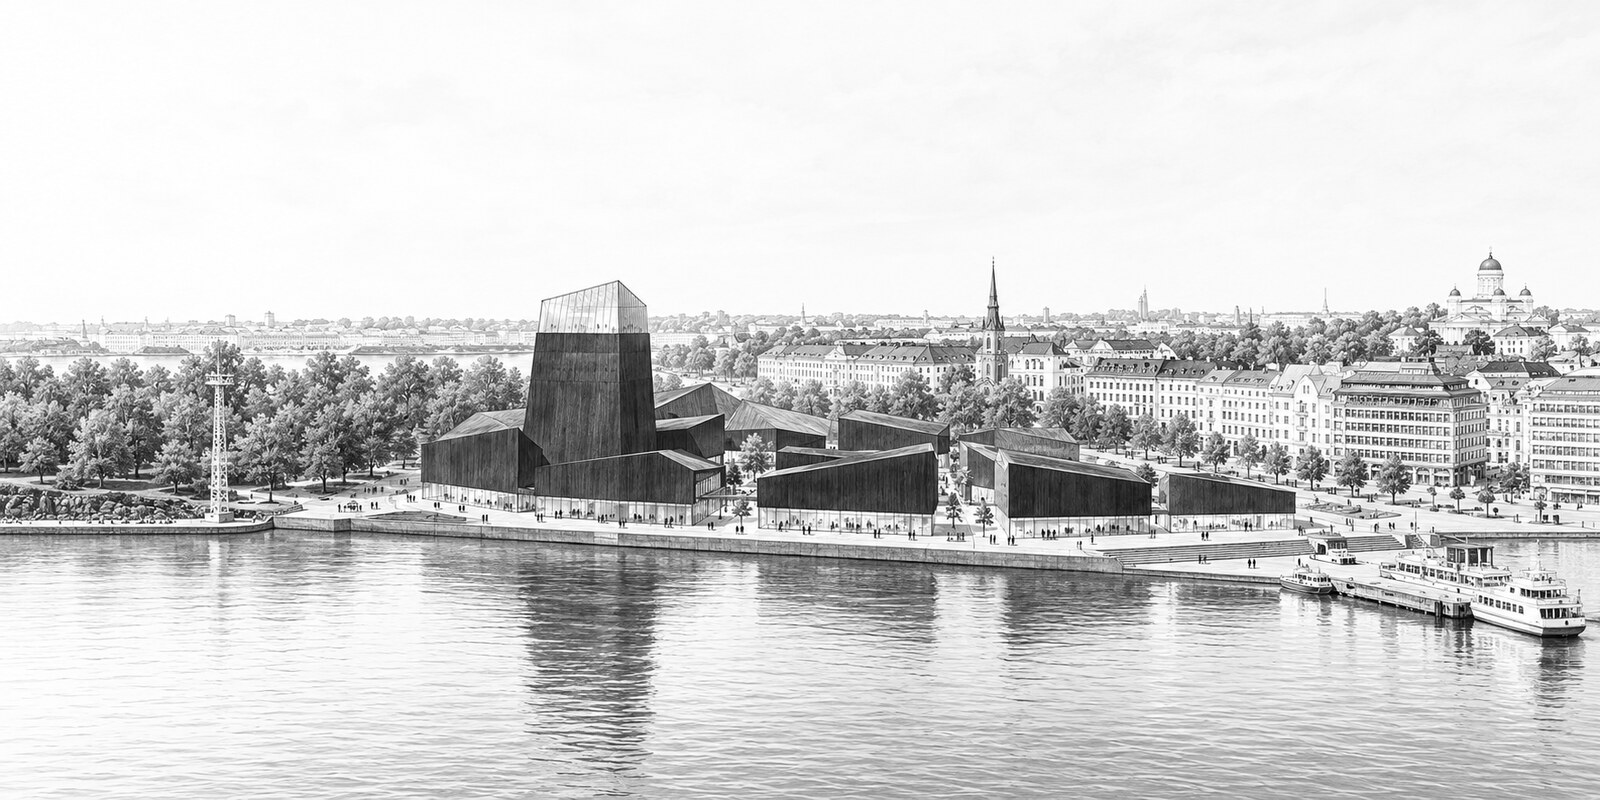
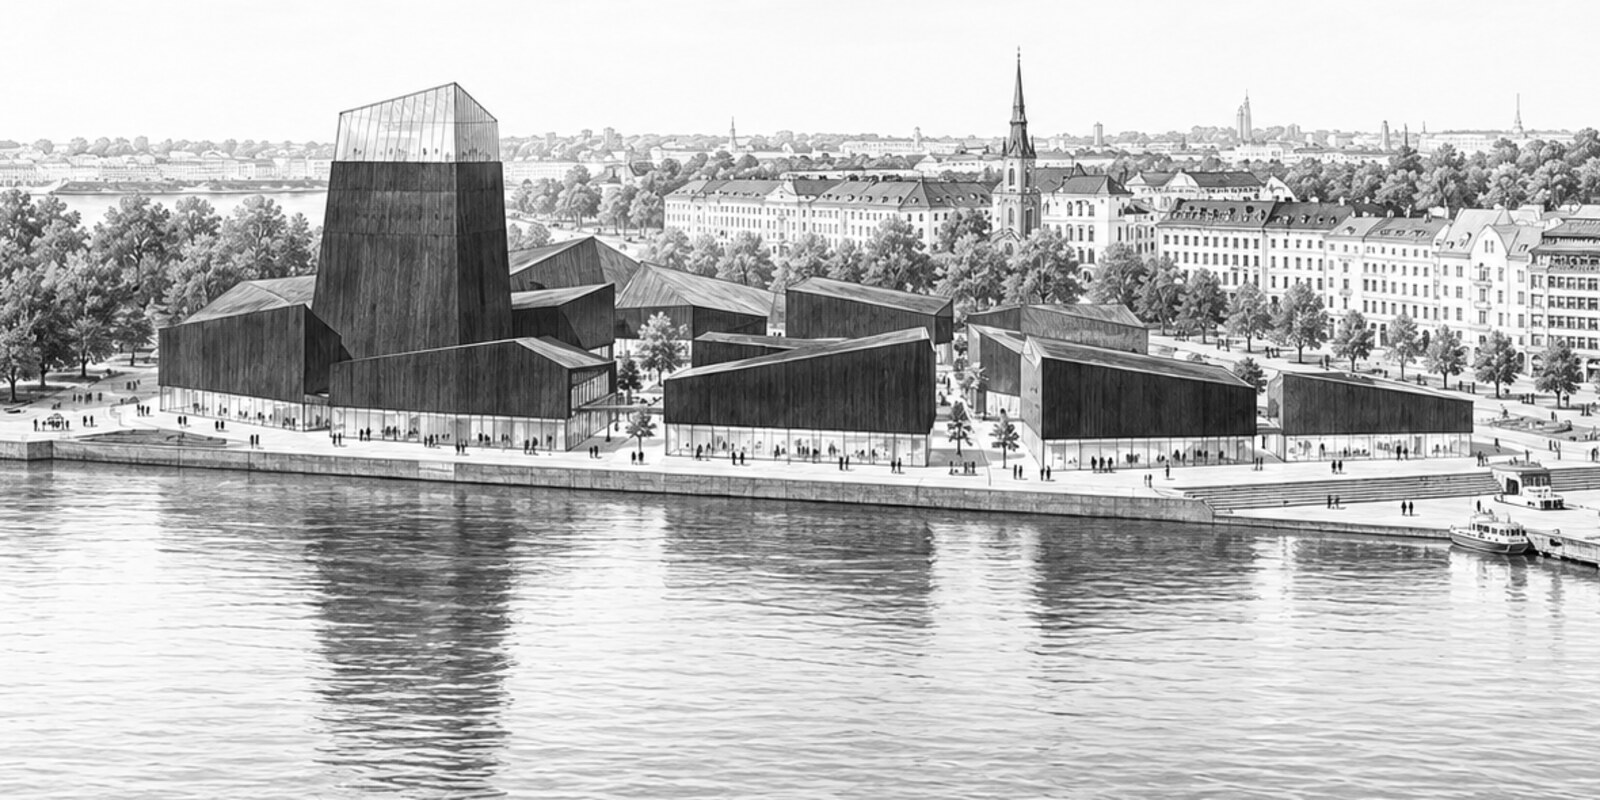
Tighten museum composition for compact device layouts

diff --git a/docs/IMAGE_UPDATE_2026-10-20.md b/docs/IMAGE_UPDATE_2026-10-20.md
@@ -10,6 +10,7 @@ Use case: historical-scene. Asset type: NEVER BUILT e-paper museum exhibit recon
 
 - `assets/exhibits/responsive-v2/guggenheim-helsinki-master-2x1.jpg`: 1600×800, 8-bit grayscale JPEG, quality 88.
 - `assets/exhibits/responsive-v2/guggenheim-helsinki-standard-4x3.jpg`: 1200×900, 8-bit grayscale JPEG, quality 88.
+- Initial device review found too much peripheral sky and water. The generated 1774×887 source is cropped to 1180×590 at +350+250 before both exports. This tightens the composition while preserving the whole museum ensemble and tower; peripheral skyline and boats are not identifying subjects. Fresh hosted renders must be reviewed before merge.
 - Standard uses white contain padding to preserve the whole waterfront ensemble and tower. Checked against the architect's published renderings: low dark timber volumes, light ground-floor glazing and one taller rectangular tower with a glazed sloping crown. Exact roof geometry, pavilion arrangement, surrounding skyline and fine details remain interpretive; no source photograph/rendering is redistributed.
 - Both exports visually inspected; no pre-dithering. Hosted OG 1-bit and X 4-bit rendering remains the final readability check.
 - Merge requires all 12 Full/Half Horizontal/Half Vertical/Quadrant OG/X-landscape/X-portrait layouts to pass visual review.

diff --git a/docs/PROMOTION_2026-10-20.md b/docs/PROMOTION_2026-10-20.md
@@ -12,4 +12,6 @@ New candidate Dome over Manhattan: The Glass House identifies a 1960 photograph 
 
 Sources, concise text and responsive export scope reviewed on 20 October 2026. Complete artwork prompt and export decisions: [image update](IMAGE_UPDATE_2026-10-20.md).
 
+Initial device review prompted a tighter museum crop to improve compact-layout legibility; a fresh render run and all 12 layout approvals are required on the corrected assets.
+
 Required before merge: live/candidate validation; Saved State and compact Serverless tests; website build; JavaScript syntax; diff checks; responsive-asset and catalogue/installation-identity tests; hosted trmnlp lint and rendering; visual inspection of all 12 relevant OG/X-landscape/X-portrait layouts. Final CI and screenshot approval will be recorded in the PR. This document alone does not authorise a merge.
